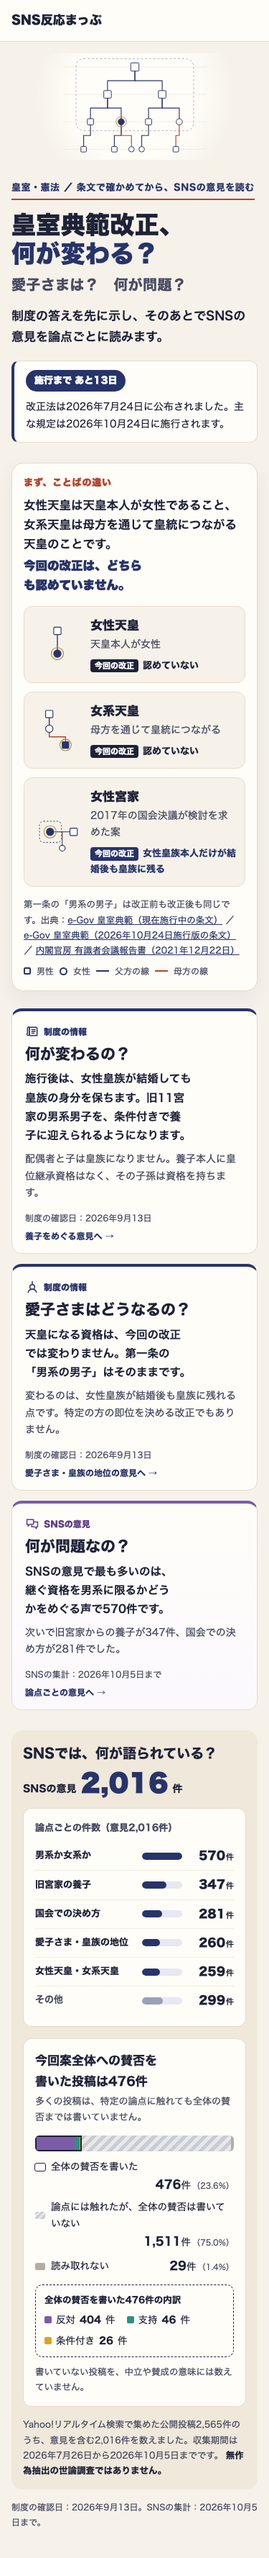
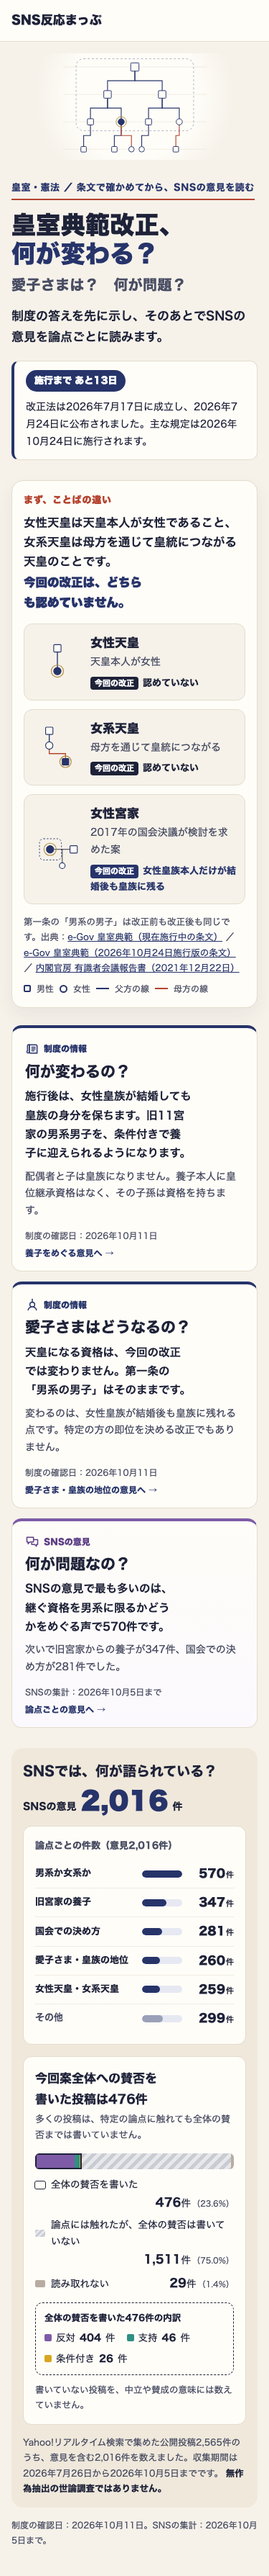
koshitsu-tenpakai: 設定JSONに照合結果を反映（成立日・確認日・定義の注記）

diff --git a/quality/prototypes/koshitsu-tenpakai-opening/index.html b/quality/prototypes/koshitsu-tenpakai-opening/index.html
@@ -16,7 +16,7 @@
 <p class="ko-kicker">皇室・憲法 ／ 条文で確かめてから、SNSの意見を読む</p>
 <h1 id="ko-title"><span class="ko-h1-line">皇室典範改正、</span><span class="ko-h1-line">何が変わる？</span><span class="ko-h1-sub">愛子さまは？　何が問題？</span></h1>
 <p class="ko-lead">制度の答えを先に示し、そのあとでSNSの意見を論点ごとに読みます。</p>
-<div class="ko-status" role="note"><span class="ko-badge ko-badge-before">施行まで あと13日</span><p>改正法は2026年7月24日に公布されました。主な規定は2026年10月24日に施行されます。</p></div>
+<div class="ko-status" role="note"><span class="ko-badge ko-badge-before">施行まで あと13日</span><p>改正法は2026年7月17日に成立し、2026年7月24日に公布されました。主な規定は2026年10月24日に施行されます。</p></div>
 </div><div class="ko-hero-art"><svg class="ko-hero-fig" viewBox="0 0 420 310" aria-hidden="true" focusable="false"><path d="M0 40 H420" stroke="#e4dccd" stroke-width="1"/><path d="M0 120 H420" stroke="#e4dccd" stroke-width="1"/><path d="M0 200 H420" stroke="#e4dccd" stroke-width="1"/><path d="M0 280 H420" stroke="#e4dccd" stroke-width="1"/><path d="M210 40 V80.0 H130 V120" fill="none" stroke="#27346a" stroke-width="2.4" stroke-linecap="round"/><path d="M210 40 V80.0 H290 V120" fill="none" stroke="#27346a" stroke-width="2.4" stroke-linecap="round"/><path d="M130 120 V160.0 H80 V200" fill="none" stroke="#27346a" stroke-width="2.4" stroke-linecap="round"/><path d="M130 120 V160.0 H170 V200" fill="none" stroke="#27346a" stroke-width="2.4" stroke-linecap="round"/><path d="M290 120 V160.0 H250 V200" fill="none" stroke="#27346a" stroke-width="2.4" stroke-linecap="round"/><path d="M290 120 V160.0 H340 V200" fill="none" stroke="#27346a" stroke-width="2.4" stroke-linecap="round"/><path d="M80 200 V240.0 H60 V280" fill="none" stroke="#27346a" stroke-width="2.4" stroke-linecap="round"/><path d="M170 200 V240.0 H150 V280" fill="none" stroke="#27346a" stroke-width="2.4" stroke-linecap="round"/><path d="M250 200 V240.0 H230 V280" fill="none" stroke="#27346a" stroke-width="2.4" stroke-linecap="round"/><path d="M340 200 V240.0 H330 V280" fill="none" stroke="#b4432e" stroke-width="2.4" stroke-linecap="round"/><path d="M170 200 V240.0 H200 V280" fill="none" stroke="#b4432e" stroke-width="2.4" stroke-linecap="round"/><rect x="38" y="16" width="344" height="210" rx="22" fill="none" stroke="#27346a" stroke-width="1.4" stroke-dasharray="6 6" opacity=".55"/><rect x="198" y="28" width="24" height="24" rx="2" fill="#fffdf8" stroke="#27346a" stroke-width="2"/><rect x="119" y="109" width="22" height="22" rx="2" fill="#fffdf8" stroke="#27346a" stroke-width="2"/><rect x="279" y="109" width="22" height="22" rx="2" fill="#fffdf8" stroke="#27346a" stroke-width="2"/><rect x="71" y="191" width="18" height="18" rx="2" fill="#fffdf8" stroke="#27346a" stroke-width="2"/><circle cx="170" cy="200" r="15" fill="none" stroke="#b08a3e" stroke-width="2"/><circle cx="170" cy="200" r="9" fill="#27346a" stroke="#27346a" stroke-width="2"/><rect x="241" y="191" width="18" height="18" rx="2" fill="#fffdf8" stroke="#27346a" stroke-width="2"/><circle cx="340" cy="200" r="9" fill="#fffdf8" stroke="#27346a" stroke-width="2"/><rect x="52" y="272" width="16" height="16" rx="2" fill="#fffdf8" stroke="#27346a" stroke-width="2"/><rect x="142" y="272" width="16" height="16" rx="2" fill="#fffdf8" stroke="#27346a" stroke-width="2"/><circle cx="230" cy="280" r="8" fill="#fffdf8" stroke="#27346a" stroke-width="2"/><rect x="322" y="272" width="16" height="16" rx="2" fill="#fffdf8" stroke="#27346a" stroke-width="2"/><circle cx="200" cy="280" r="8" fill="#fffdf8" stroke="#27346a" stroke-width="2"/></svg></div></div>
 <div class="ko-short" aria-labelledby="ko-short-label">
 <p class="ko-short-label" id="ko-short-label">まず、ことばの違い</p>
@@ -30,8 +30,8 @@
 <p class="ko-legend" aria-hidden="true"><span class="lg-m"></span>男性 <span class="lg-f"></span>女性 <span class="lg-pat"></span>父方の線 <span class="lg-mat"></span>母方の線</p>
 </div>
 <ol class="ko-questions">
-<li class="ko-q ko-q-law" id="ko-q-what-changes"><p class="ko-q-tag"><svg class="ko-q-icon" viewBox="0 0 24 24" aria-hidden="true"><path d="M7 5h11a2 2 0 0 1 2 2v12H9a2 2 0 0 1-2-2z" fill="none" stroke="currentColor" stroke-width="1.8"/><path d="M4 7a2 2 0 0 1 3-2v12a2 2 0 1 1-3-2z" fill="none" stroke="currentColor" stroke-width="1.8"/><path d="M11 9h6M11 12h6M11 15h4" stroke="currentColor" stroke-width="1.6" stroke-linecap="round"/></svg>制度の情報</p><h2 class="ko-q-title">何が変わるの？</h2><p class="ko-q-answer">施行後は、女性皇族が結婚しても皇族の身分を保ちます。旧11宮家の男系男子を、条件付きで養子に迎えられるようになります。</p><p class="ko-q-detail">配偶者と子は皇族になりません。養子本人に皇位継承資格はなく、その子孫は資格を持ちます。</p><p class="ko-q-foot"><span>制度の確認日：2026年9月13日</span><a href="#issue-koshitsu-tenpakai-former-royal-adoption">養子をめぐる意見へ →</a></p></li>
-<li class="ko-q ko-q-law" id="ko-q-princess-aiko"><p class="ko-q-tag"><svg class="ko-q-icon" viewBox="0 0 24 24" aria-hidden="true"><path d="M12 3v5" stroke="currentColor" stroke-width="1.8" stroke-linecap="round"/><circle cx="12" cy="12" r="4" fill="none" stroke="currentColor" stroke-width="1.8"/><path d="M5 21c1-3.5 4-5 7-5s6 1.5 7 5" fill="none" stroke="currentColor" stroke-width="1.8" stroke-linecap="round"/></svg>制度の情報</p><h2 class="ko-q-title">愛子さまはどうなるの？</h2><p class="ko-q-answer">天皇になる資格は、今回の改正では変わりません。第一条の「男系の男子」はそのままです。</p><p class="ko-q-detail">変わるのは、女性皇族が結婚後も皇族に残れる点です。特定の方の即位を決める改正でもありません。</p><p class="ko-q-foot"><span>制度の確認日：2026年9月13日</span><a href="#issue-koshitsu-tenpakai-princess-aiko">愛子さま・皇族の地位の意見へ →</a></p></li>
+<li class="ko-q ko-q-law" id="ko-q-what-changes"><p class="ko-q-tag"><svg class="ko-q-icon" viewBox="0 0 24 24" aria-hidden="true"><path d="M7 5h11a2 2 0 0 1 2 2v12H9a2 2 0 0 1-2-2z" fill="none" stroke="currentColor" stroke-width="1.8"/><path d="M4 7a2 2 0 0 1 3-2v12a2 2 0 1 1-3-2z" fill="none" stroke="currentColor" stroke-width="1.8"/><path d="M11 9h6M11 12h6M11 15h4" stroke="currentColor" stroke-width="1.6" stroke-linecap="round"/></svg>制度の情報</p><h2 class="ko-q-title">何が変わるの？</h2><p class="ko-q-answer">施行後は、女性皇族が結婚しても皇族の身分を保ちます。旧11宮家の男系男子を、条件付きで養子に迎えられるようになります。</p><p class="ko-q-detail">配偶者と子は皇族になりません。養子本人に皇位継承資格はなく、その子孫は資格を持ちます。</p><p class="ko-q-foot"><span>制度の確認日：2026年10月11日</span><a href="#issue-koshitsu-tenpakai-former-royal-adoption">養子をめぐる意見へ →</a></p></li>
+<li class="ko-q ko-q-law" id="ko-q-princess-aiko"><p class="ko-q-tag"><svg class="ko-q-icon" viewBox="0 0 24 24" aria-hidden="true"><path d="M12 3v5" stroke="currentColor" stroke-width="1.8" stroke-linecap="round"/><circle cx="12" cy="12" r="4" fill="none" stroke="currentColor" stroke-width="1.8"/><path d="M5 21c1-3.5 4-5 7-5s6 1.5 7 5" fill="none" stroke="currentColor" stroke-width="1.8" stroke-linecap="round"/></svg>制度の情報</p><h2 class="ko-q-title">愛子さまはどうなるの？</h2><p class="ko-q-answer">天皇になる資格は、今回の改正では変わりません。第一条の「男系の男子」はそのままです。</p><p class="ko-q-detail">変わるのは、女性皇族が結婚後も皇族に残れる点です。特定の方の即位を決める改正でもありません。</p><p class="ko-q-foot"><span>制度の確認日：2026年10月11日</span><a href="#issue-koshitsu-tenpakai-princess-aiko">愛子さま・皇族の地位の意見へ →</a></p></li>
 <li class="ko-q ko-q-sns" id="ko-q-what-is-the-problem"><p class="ko-q-tag"><svg class="ko-q-icon" viewBox="0 0 24 24" aria-hidden="true"><path d="M3 5h11v8H8l-3 3v-3H3z" fill="none" stroke="currentColor" stroke-width="1.8" stroke-linejoin="round"/><path d="M14 9h7v8h-2v3l-3-3h-5v-3" fill="none" stroke="currentColor" stroke-width="1.8" stroke-linejoin="round"/></svg>SNSの意見</p><h2 class="ko-q-title">何が問題なの？</h2><p class="ko-q-answer">SNSの意見で最も多いのは、継ぐ資格を男系に限るかどうかをめぐる声で570件です。</p><p class="ko-q-detail">次いで旧宮家からの養子が347件、国会での決め方が281件でした。</p><p class="ko-q-foot"><span>SNSの集計：2026年10月5日まで</span><a href="#issue-koshitsu-tenpakai-patrilineal-matrilineal">論点ごとの意見へ →</a></p></li>
 </ol>
 <div class="ko-counts" aria-labelledby="ko-counts-title">
@@ -61,7 +61,7 @@
 </figure></div>
 <p class="ko-basis">Yahoo!リアルタイム検索で集めた公開投稿2,565件のうち、意見を含む2,016件を数えました。収集期間は2026年7月26日から2026年10月5日までです。<strong>無作為抽出の世論調査ではありません。</strong></p>
 </div>
-<p class="ko-dates">制度の確認日：2026年9月13日。SNSの集計：2026年10月5日まで。</p>
+<p class="ko-dates">制度の確認日：2026年10月11日。SNSの集計：2026年10月5日まで。</p>
 </section>
 <!-- KOSHITSU_OPENING_END -->
 </main>

diff --git a/quality/prototypes/koshitsu-tenpakai-opening/opening-fragment.html b/quality/prototypes/koshitsu-tenpakai-opening/opening-fragment.html
@@ -4,7 +4,7 @@
 <p class="ko-kicker">皇室・憲法 ／ 条文で確かめてから、SNSの意見を読む</p>
 <h1 id="ko-title"><span class="ko-h1-line">皇室典範改正、</span><span class="ko-h1-line">何が変わる？</span><span class="ko-h1-sub">愛子さまは？　何が問題？</span></h1>
 <p class="ko-lead">制度の答えを先に示し、そのあとでSNSの意見を論点ごとに読みます。</p>
-<div class="ko-status" role="note"><span class="ko-badge ko-badge-before">施行まで あと13日</span><p>改正法は2026年7月24日に公布されました。主な規定は2026年10月24日に施行されます。</p></div>
+<div class="ko-status" role="note"><span class="ko-badge ko-badge-before">施行まで あと13日</span><p>改正法は2026年7月17日に成立し、2026年7月24日に公布されました。主な規定は2026年10月24日に施行されます。</p></div>
 </div><div class="ko-hero-art"><svg class="ko-hero-fig" viewBox="0 0 420 310" aria-hidden="true" focusable="false"><path d="M0 40 H420" stroke="#e4dccd" stroke-width="1"/><path d="M0 120 H420" stroke="#e4dccd" stroke-width="1"/><path d="M0 200 H420" stroke="#e4dccd" stroke-width="1"/><path d="M0 280 H420" stroke="#e4dccd" stroke-width="1"/><path d="M210 40 V80.0 H130 V120" fill="none" stroke="#27346a" stroke-width="2.4" stroke-linecap="round"/><path d="M210 40 V80.0 H290 V120" fill="none" stroke="#27346a" stroke-width="2.4" stroke-linecap="round"/><path d="M130 120 V160.0 H80 V200" fill="none" stroke="#27346a" stroke-width="2.4" stroke-linecap="round"/><path d="M130 120 V160.0 H170 V200" fill="none" stroke="#27346a" stroke-width="2.4" stroke-linecap="round"/><path d="M290 120 V160.0 H250 V200" fill="none" stroke="#27346a" stroke-width="2.4" stroke-linecap="round"/><path d="M290 120 V160.0 H340 V200" fill="none" stroke="#27346a" stroke-width="2.4" stroke-linecap="round"/><path d="M80 200 V240.0 H60 V280" fill="none" stroke="#27346a" stroke-width="2.4" stroke-linecap="round"/><path d="M170 200 V240.0 H150 V280" fill="none" stroke="#27346a" stroke-width="2.4" stroke-linecap="round"/><path d="M250 200 V240.0 H230 V280" fill="none" stroke="#27346a" stroke-width="2.4" stroke-linecap="round"/><path d="M340 200 V240.0 H330 V280" fill="none" stroke="#b4432e" stroke-width="2.4" stroke-linecap="round"/><path d="M170 200 V240.0 H200 V280" fill="none" stroke="#b4432e" stroke-width="2.4" stroke-linecap="round"/><rect x="38" y="16" width="344" height="210" rx="22" fill="none" stroke="#27346a" stroke-width="1.4" stroke-dasharray="6 6" opacity=".55"/><rect x="198" y="28" width="24" height="24" rx="2" fill="#fffdf8" stroke="#27346a" stroke-width="2"/><rect x="119" y="109" width="22" height="22" rx="2" fill="#fffdf8" stroke="#27346a" stroke-width="2"/><rect x="279" y="109" width="22" height="22" rx="2" fill="#fffdf8" stroke="#27346a" stroke-width="2"/><rect x="71" y="191" width="18" height="18" rx="2" fill="#fffdf8" stroke="#27346a" stroke-width="2"/><circle cx="170" cy="200" r="15" fill="none" stroke="#b08a3e" stroke-width="2"/><circle cx="170" cy="200" r="9" fill="#27346a" stroke="#27346a" stroke-width="2"/><rect x="241" y="191" width="18" height="18" rx="2" fill="#fffdf8" stroke="#27346a" stroke-width="2"/><circle cx="340" cy="200" r="9" fill="#fffdf8" stroke="#27346a" stroke-width="2"/><rect x="52" y="272" width="16" height="16" rx="2" fill="#fffdf8" stroke="#27346a" stroke-width="2"/><rect x="142" y="272" width="16" height="16" rx="2" fill="#fffdf8" stroke="#27346a" stroke-width="2"/><circle cx="230" cy="280" r="8" fill="#fffdf8" stroke="#27346a" stroke-width="2"/><rect x="322" y="272" width="16" height="16" rx="2" fill="#fffdf8" stroke="#27346a" stroke-width="2"/><circle cx="200" cy="280" r="8" fill="#fffdf8" stroke="#27346a" stroke-width="2"/></svg></div></div>
 <div class="ko-short" aria-labelledby="ko-short-label">
 <p class="ko-short-label" id="ko-short-label">まず、ことばの違い</p>
@@ -18,8 +18,8 @@
 <p class="ko-legend" aria-hidden="true"><span class="lg-m"></span>男性 <span class="lg-f"></span>女性 <span class="lg-pat"></span>父方の線 <span class="lg-mat"></span>母方の線</p>
 </div>
 <ol class="ko-questions">
-<li class="ko-q ko-q-law" id="ko-q-what-changes"><p class="ko-q-tag"><svg class="ko-q-icon" viewBox="0 0 24 24" aria-hidden="true"><path d="M7 5h11a2 2 0 0 1 2 2v12H9a2 2 0 0 1-2-2z" fill="none" stroke="currentColor" stroke-width="1.8"/><path d="M4 7a2 2 0 0 1 3-2v12a2 2 0 1 1-3-2z" fill="none" stroke="currentColor" stroke-width="1.8"/><path d="M11 9h6M11 12h6M11 15h4" stroke="currentColor" stroke-width="1.6" stroke-linecap="round"/></svg>制度の情報</p><h2 class="ko-q-title">何が変わるの？</h2><p class="ko-q-answer">施行後は、女性皇族が結婚しても皇族の身分を保ちます。旧11宮家の男系男子を、条件付きで養子に迎えられるようになります。</p><p class="ko-q-detail">配偶者と子は皇族になりません。養子本人に皇位継承資格はなく、その子孫は資格を持ちます。</p><p class="ko-q-foot"><span>制度の確認日：2026年9月13日</span><a href="#issue-koshitsu-tenpakai-former-royal-adoption">養子をめぐる意見へ →</a></p></li>
-<li class="ko-q ko-q-law" id="ko-q-princess-aiko"><p class="ko-q-tag"><svg class="ko-q-icon" viewBox="0 0 24 24" aria-hidden="true"><path d="M12 3v5" stroke="currentColor" stroke-width="1.8" stroke-linecap="round"/><circle cx="12" cy="12" r="4" fill="none" stroke="currentColor" stroke-width="1.8"/><path d="M5 21c1-3.5 4-5 7-5s6 1.5 7 5" fill="none" stroke="currentColor" stroke-width="1.8" stroke-linecap="round"/></svg>制度の情報</p><h2 class="ko-q-title">愛子さまはどうなるの？</h2><p class="ko-q-answer">天皇になる資格は、今回の改正では変わりません。第一条の「男系の男子」はそのままです。</p><p class="ko-q-detail">変わるのは、女性皇族が結婚後も皇族に残れる点です。特定の方の即位を決める改正でもありません。</p><p class="ko-q-foot"><span>制度の確認日：2026年9月13日</span><a href="#issue-koshitsu-tenpakai-princess-aiko">愛子さま・皇族の地位の意見へ →</a></p></li>
+<li class="ko-q ko-q-law" id="ko-q-what-changes"><p class="ko-q-tag"><svg class="ko-q-icon" viewBox="0 0 24 24" aria-hidden="true"><path d="M7 5h11a2 2 0 0 1 2 2v12H9a2 2 0 0 1-2-2z" fill="none" stroke="currentColor" stroke-width="1.8"/><path d="M4 7a2 2 0 0 1 3-2v12a2 2 0 1 1-3-2z" fill="none" stroke="currentColor" stroke-width="1.8"/><path d="M11 9h6M11 12h6M11 15h4" stroke="currentColor" stroke-width="1.6" stroke-linecap="round"/></svg>制度の情報</p><h2 class="ko-q-title">何が変わるの？</h2><p class="ko-q-answer">施行後は、女性皇族が結婚しても皇族の身分を保ちます。旧11宮家の男系男子を、条件付きで養子に迎えられるようになります。</p><p class="ko-q-detail">配偶者と子は皇族になりません。養子本人に皇位継承資格はなく、その子孫は資格を持ちます。</p><p class="ko-q-foot"><span>制度の確認日：2026年10月11日</span><a href="#issue-koshitsu-tenpakai-former-royal-adoption">養子をめぐる意見へ →</a></p></li>
+<li class="ko-q ko-q-law" id="ko-q-princess-aiko"><p class="ko-q-tag"><svg class="ko-q-icon" viewBox="0 0 24 24" aria-hidden="true"><path d="M12 3v5" stroke="currentColor" stroke-width="1.8" stroke-linecap="round"/><circle cx="12" cy="12" r="4" fill="none" stroke="currentColor" stroke-width="1.8"/><path d="M5 21c1-3.5 4-5 7-5s6 1.5 7 5" fill="none" stroke="currentColor" stroke-width="1.8" stroke-linecap="round"/></svg>制度の情報</p><h2 class="ko-q-title">愛子さまはどうなるの？</h2><p class="ko-q-answer">天皇になる資格は、今回の改正では変わりません。第一条の「男系の男子」はそのままです。</p><p class="ko-q-detail">変わるのは、女性皇族が結婚後も皇族に残れる点です。特定の方の即位を決める改正でもありません。</p><p class="ko-q-foot"><span>制度の確認日：2026年10月11日</span><a href="#issue-koshitsu-tenpakai-princess-aiko">愛子さま・皇族の地位の意見へ →</a></p></li>
 <li class="ko-q ko-q-sns" id="ko-q-what-is-the-problem"><p class="ko-q-tag"><svg class="ko-q-icon" viewBox="0 0 24 24" aria-hidden="true"><path d="M3 5h11v8H8l-3 3v-3H3z" fill="none" stroke="currentColor" stroke-width="1.8" stroke-linejoin="round"/><path d="M14 9h7v8h-2v3l-3-3h-5v-3" fill="none" stroke="currentColor" stroke-width="1.8" stroke-linejoin="round"/></svg>SNSの意見</p><h2 class="ko-q-title">何が問題なの？</h2><p class="ko-q-answer">SNSの意見で最も多いのは、継ぐ資格を男系に限るかどうかをめぐる声で570件です。</p><p class="ko-q-detail">次いで旧宮家からの養子が347件、国会での決め方が281件でした。</p><p class="ko-q-foot"><span>SNSの集計：2026年10月5日まで</span><a href="#issue-koshitsu-tenpakai-patrilineal-matrilineal">論点ごとの意見へ →</a></p></li>
 </ol>
 <div class="ko-counts" aria-labelledby="ko-counts-title">
@@ -49,6 +49,6 @@
 </figure></div>
 <p class="ko-basis">Yahoo!リアルタイム検索で集めた公開投稿2,565件のうち、意見を含む2,016件を数えました。収集期間は2026年7月26日から2026年10月5日までです。<strong>無作為抽出の世論調査ではありません。</strong></p>
 </div>
-<p class="ko-dates">制度の確認日：2026年9月13日。SNSの集計：2026年10月5日まで。</p>
+<p class="ko-dates">制度の確認日：2026年10月11日。SNSの集計：2026年10月5日まで。</p>
 </section>
 <!-- KOSHITSU_OPENING_END -->

diff --git a/scripts/koshitsu_opening.py b/scripts/koshitsu_opening.py
@@ -205,6 +205,7 @@ def render_fragment(config: dict, public: dict, as_of: str) -> str:
     by_id = {i["id"]: i for i in public["issues"]}
 
     values = {
+        "enacted": ja_date(law["enacted_on"]) if law.get("enacted_on") else "",
         "promulgated": ja_date(law["promulgated_on"]),
         "enforcement": ja_date(law["enforcement_on"]),
         "confirmed": ja_date(law["enforcement_confirmed_on"]) if law.get("enforcement_confirmed_on") else "",

diff --git a/quality/designs/2026-10-11-koshitsu-tenpakai-opening.md b/quality/designs/2026-10-11-koshitsu-tenpakai-opening.md
@@ -71,3 +71,7 @@
 ## 2026-10-11 一次資料との照合（Haiku 8本＋司令塔の再確認）
 
 照合表: [quality/reviews/2026-10-11-koshitsu-tenpakai-opening-source-check.md](../reviews/2026-10-11-koshitsu-tenpakai-opening-source-check.md)。不一致なし。現行の皇室典範第一条「男系の男子」は司令塔が条文APIで確認。成立日7/17と有識者会議報告書の本文は未確認のまま。
+
+## 2026-10-11 設定JSONへ照合結果を反映
+
+成立日 2026-07-17 を表示（資料K）。制度の確認日を 2026-10-11 へ（e-Gov 再照合）。「女性天皇」の定義が一次資料に無い旨を設定の注記に記録。
